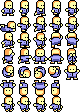
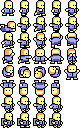
D.jump and flapping replaced with rocket pack

diff --git a/src/player.ts b/src/player.ts
@@ -138,6 +138,9 @@ export class Player extends CollisionObject {
             (this.isLadderTop && event.input.downPress()))) {
 
             this.climbing = true;
+            this.jumpTimer = 0;
+            this.doubleJump = false;
+            this.flapping = false;
 
             this.pos.x = this.climbX;
 
@@ -186,6 +189,9 @@ export class Player extends CollisionObject {
 
                     this.jumpTimer = CLIB_JUMP_TIME;
                 }
+
+                if (Math.abs(sx) > EPS)
+                    this.faceDir = sx > 0 ? 1 : -1;
             }
         }
     }
@@ -301,7 +307,7 @@ export class Player extends CollisionObject {
         const DOWN_EPS = 0.25;
 
         const JUMP_TIME = 12;
-        const DOUBLE_JUMP_TIME = 8;
+        const DOUBLE_JUMP_TIME = 30;
         const BASE_JUMP_MOD = 0.25;
         const DOWN_ATTACK_JUMP = -1.5;
         const DOWN_ATTACK_GRAVITY = 6.0;
@@ -360,15 +366,18 @@ export class Player extends CollisionObject {
             this.jumpReleased = true;
         }
 
-        this.flapping = this.progress.getBooleanProperty("item5") &&
+        this.flapping = !this.canJump &&
+            this.progress.getBooleanProperty("item5") &&
             this.jumpReleased &&
             this.jumpTimer <= 0 &&
             (!this.progress.getBooleanProperty("item6") || this.doubleJump) && 
             (s & State.DownOrPressed) == 1;
         if (this.flapping) {
 
-            this.speed.y = FLAP_GRAVITY;
-            this.target.y = this.speed.y;
+            // this.speed.y = FLAP_GRAVITY;
+            this.target.y = FLAP_GRAVITY;
+            if (this.speed.y > this.target.y)
+                this.speed.y = this.target.y;
         }
     }
 
@@ -427,8 +436,6 @@ export class Player extends CollisionObject {
         const JUMP_EPS = 0.75;
         const RUN_SPEED_BASE = 10;
         const RUN_SPEED_MOD = 4;
-        const DOUBLE_JUMP_SPEED = 4;
-        const SPIN_EPS = 1.0;
         const CLIMB_SPEED = 10;
         const DOWN_ATTACK_SPEED = 4;
         const FLAP_SPEED = 3;
@@ -499,29 +506,32 @@ export class Player extends CollisionObject {
         }
         else {
 
-            if (this.flapping) {
+            frame = 1;
+            if (this.speed.y > JUMP_EPS)
+                frame = 2;
+            else if (this.speed.y < -JUMP_EPS)
+                frame = 0;
+            
+            if (this.flapping)
+                frame = 3;
 
-                this.spr.animate(6, 0, 3, FLAP_SPEED, event.step);
-            }
-            else if (this.doubleJump && this.speed.y < SPIN_EPS) {
+            if ((this.doubleJump && this.jumpTimer > 0) || this.flapping) {
 
-                this.spr.animate(4, 0, 3, DOUBLE_JUMP_SPEED, event.step);
+                row = 7;
             }
             else {
 
-                frame = 1;
-                if (this.speed.y < -JUMP_EPS)
-                    frame = 0;
-                else if (this.speed.y > JUMP_EPS)
-                    frame = 2;
-
-                this.spr.setFrame(frame, 2);
+                row = 2;
             }
+            this.spr.setFrame(frame, row);
         }
     }
 
 
     private updateJump(event : CoreEvent) {
+
+        const DOUBLE_JUMP_SPEED_DELTA = -0.30;
+        const DOUBLE_JUMP_MIN = -1.25;
 
         if (this.jumpMargin > 0) {
 
@@ -537,7 +547,22 @@ export class Player extends CollisionObject {
             else {
 
                 this.jumpTimer -= event.step;
-                this.speed.y = -this.jumpSpeed;
+
+                if (this.doubleJump) {
+
+                    this.speed.y = Math.max(DOUBLE_JUMP_MIN,
+                        this.speed.y + DOUBLE_JUMP_SPEED_DELTA * event.step);
+                }
+                else {
+
+                    this.speed.y = -this.jumpSpeed;
+                }
+
+                if (this.jumpTimer <= 0 && this.doubleJump) {
+
+                    this.jumpReleased = true;
+                    this.flapping = true;
+                }
             }
         }
     }
@@ -546,27 +571,43 @@ export class Player extends CollisionObject {
     private updateDust(event : CoreEvent) {
 
         const DUST_GEN_TIME_BASE = 8;
+        const DUST_GEN_TIME_ROCKET = 6;
         const DUST_ANIM_SPEED = 8;
         const EPS = 0.01;
+        const ROCKET_DOWN_SPEED_UP = 0.5;
+        const ROCKET_DOWN_SPEED_FLOAT = 1.0;
 
         for (let d of this.dust) {
 
             d.update(event);
         }
 
-        if (this.sliding || !this.canJump || 
+        let rocketActive = (this.doubleJump && this.jumpTimer > 0) || this.flapping;
+
+        if (!rocketActive && (this.sliding || !this.canJump || 
             this.knockbackTimer > 0 ||
-            Math.abs(this.speed.x) <= EPS) return;
+            Math.abs(this.speed.x) <= EPS)) return;
+
+        let dir = this.flip == Flip.None ? 1 : -1;
 
         let genTime = DUST_GEN_TIME_BASE / Math.abs(this.speed.x);
+        let speed = new Vector2();
+        let pos = new Vector2(
+            this.pos.x - 2 * dir, 
+            this.pos.y + 6);
+
+        if (rocketActive) {
+
+            speed.y = this.flapping ? ROCKET_DOWN_SPEED_FLOAT : ROCKET_DOWN_SPEED_UP;
+            genTime = DUST_GEN_TIME_ROCKET;
+
+            pos.x -= dir;
+        }
 
         if ((this.dustTimer += event.step) >= genTime) {
 
             nextObject(this.dust, Dust)
-                .spawn(
-                    this.pos.x - 2 * this.faceDir, 
-                    this.pos.y + 6,
-                    DUST_ANIM_SPEED);
+                .spawn(pos.x, pos.y, DUST_ANIM_SPEED, speed);
 
             this.dustTimer -= genTime;
         }
@@ -724,7 +765,7 @@ export class Player extends CollisionObject {
 
             canvas.drawBitmapRegion(canvas.assets.getBitmap("items"), 
                 this.itemID * 16, 0, 16, 16,
-                px, py - 15);
+                px, py - 17);
         }
     }
 
@@ -739,6 +780,7 @@ export class Player extends CollisionObject {
 
             this.canJump = true;
             this.jumpMargin = JUMP_MARGIN;
+            this.jumpTimer = 0;
 
             this.doubleJump = false;
             this.climbing = false;
@@ -755,6 +797,11 @@ export class Player extends CollisionObject {
         else {
 
             this.jumpTimer = 0;
+            if (this.doubleJump) {
+
+                this.jumpReleased = true;
+                this.flapping = true;
+            }
         }
     }
 

diff --git a/src/game.ts b/src/game.ts
@@ -58,6 +58,7 @@ export class GameScene implements Scene {
 
                     for (let i = 0; i < 7; ++ i) {
                         
+                        // if (i == 6) continue;
                         this.progress.setBooleanProperty("item" + String(i), true);
                     }
                     this.pauseMenu.deactivate();
